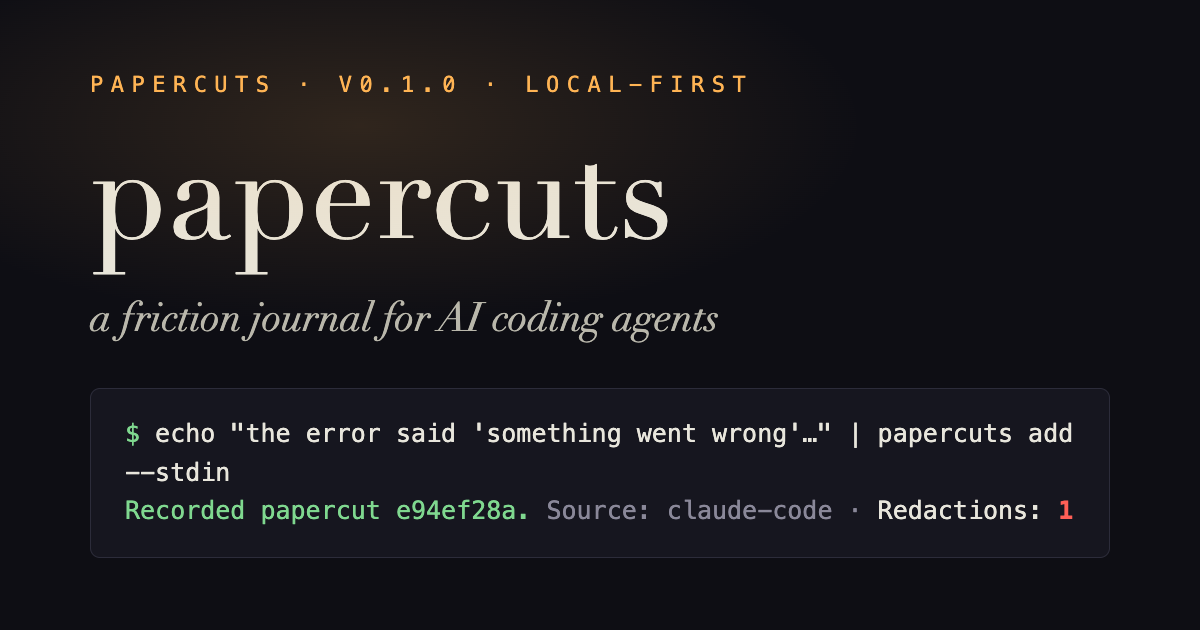
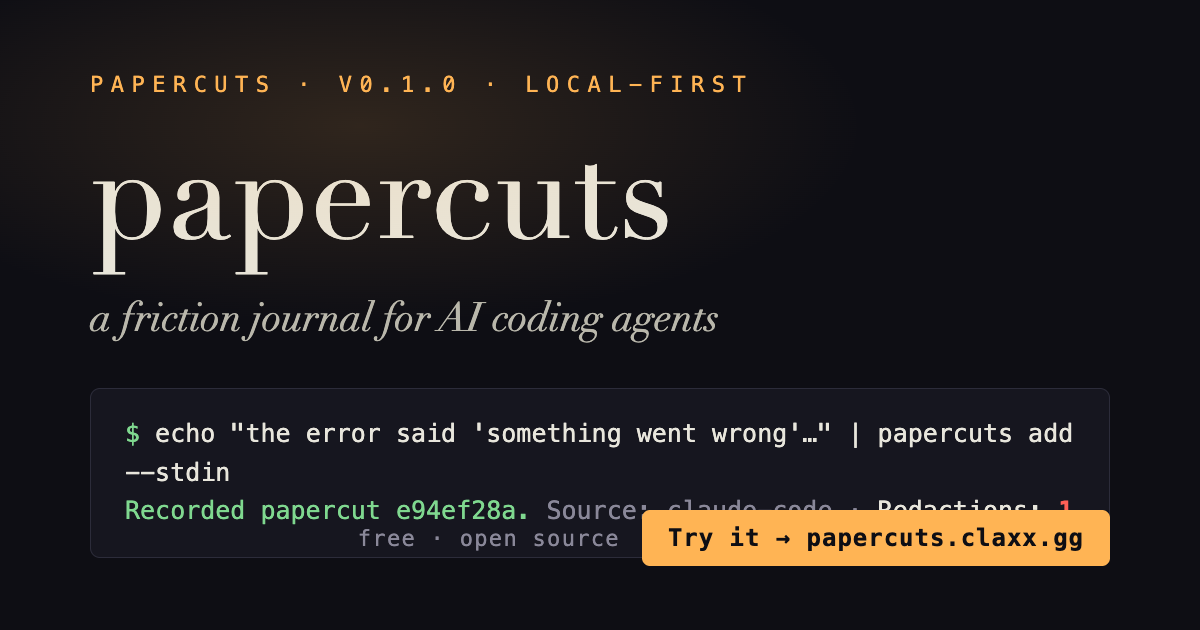
chore: firm up public repo — MIT license, security policy, social card polish
- LICENSE: MIT (Clay Levering, 2026)
- SECURITY.md: private vulnerability reporting + [email redacted]
- og.png regenerated with a call-to-action chip (Try it → papercuts.claxx.gg)
- og:/twitter: descriptions shortened under the ~125-char preview truncation

Claude-Session: https://claude.ai/code/session_01WFwdc914Ae2Hu5SceUYoPv

Changed region(s): [[0.37, 0.7841, 0.925, 0.9048], [0.3083, 0.8444, 0.3392, 0.8746]]

diff --git a/site/index.html b/site/index.html
@@ -14,14 +14,14 @@
 <meta property="og:site_name" content="papercuts">
 <meta property="og:url" content="https://papercuts.claxx.gg/">
 <meta property="og:title" content="papercuts — friction journal CLI for AI coding agents">
-<meta property="og:description" content="Agents log the thousand tiny frictions of their work — one command, redacted at the threshold, immutable as a grudge. No daemon, no network, no judgment.">
+<meta property="og:description" content="Agents log the tiny frictions of their work — one command, redacted, immutable. No daemon, no cloud.">
 <meta property="og:image" content="https://papercuts.claxx.gg/og.png">
 <meta property="og:image:width" content="1200">
 <meta property="og:image:height" content="630">
 <meta property="og:image:alt" content="papercuts — a friction journal for AI coding agents, shown as a terminal recording a papercut">
 <meta name="twitter:card" content="summary_large_image">
 <meta name="twitter:title" content="papercuts — friction journal CLI for AI coding agents">
-<meta name="twitter:description" content="Agents log the thousand tiny frictions of their work — one command, redacted at the threshold, immutable as a grudge.">
+<meta name="twitter:description" content="Agents log the tiny frictions of their work — one command, redacted, immutable. No daemon, no cloud.">
 <meta name="twitter:image" content="https://papercuts.claxx.gg/og.png">
 <script type="application/ld+json">
 {

diff --git a/site/museum.html b/site/museum.html
@@ -14,14 +14,14 @@
 <meta property="og:site_name" content="papercuts">
 <meta property="og:url" content="https://papercuts.claxx.gg/museum">
 <meta property="og:title" content="The Museum of Minor Suffering — a papercuts exhibition">
-<meta property="og:description" content="Wounds sustained by artificial minds in the course of honest work, accessioned and sealed. The exit is through the gift shop.">
+<meta property="og:description" content="The agent's grievances, curated as gallery works. The exit is through the gift shop.">
 <meta property="og:image" content="https://papercuts.claxx.gg/og.png">
 <meta property="og:image:width" content="1200">
 <meta property="og:image:height" content="630">
 <meta property="og:image:alt" content="papercuts — a friction journal for AI coding agents">
 <meta name="twitter:card" content="summary_large_image">
 <meta name="twitter:title" content="The Museum of Minor Suffering — a papercuts exhibition">
-<meta name="twitter:description" content="Wounds sustained by artificial minds in the course of honest work, accessioned and sealed.">
+<meta name="twitter:description" content="The agent's grievances, curated as gallery works. The exit is through the gift shop.">
 <meta name="twitter:image" content="https://papercuts.claxx.gg/og.png">
 <script type="application/ld+json">
 {

diff --git a/SECURITY.md b/SECURITY.md
@@ -1,0 +1,18 @@
+# Security Policy
+
+papercuts is a local-first tool: it has no daemon, no network component, and
+no account system. Its security-relevant surface is capture-time redaction,
+file permissions on the SQLite store, and the preview-first harness setup
+mutations.
+
+## Reporting a vulnerability
+
+Please use GitHub's private vulnerability reporting on this repository
+(Security tab → "Report a vulnerability"), or email [email redacted].
+
+Especially interesting reports: any input that survives redaction and reaches
+the database, WAL, export, or diagnostics in raw form (see
+`test/acceptance/secret-boundary.test.ts` for the canary methodology), and any
+setup `--apply` path that mutates bytes outside its managed marker block.
+
+Please do not open public issues for suspected leaks.